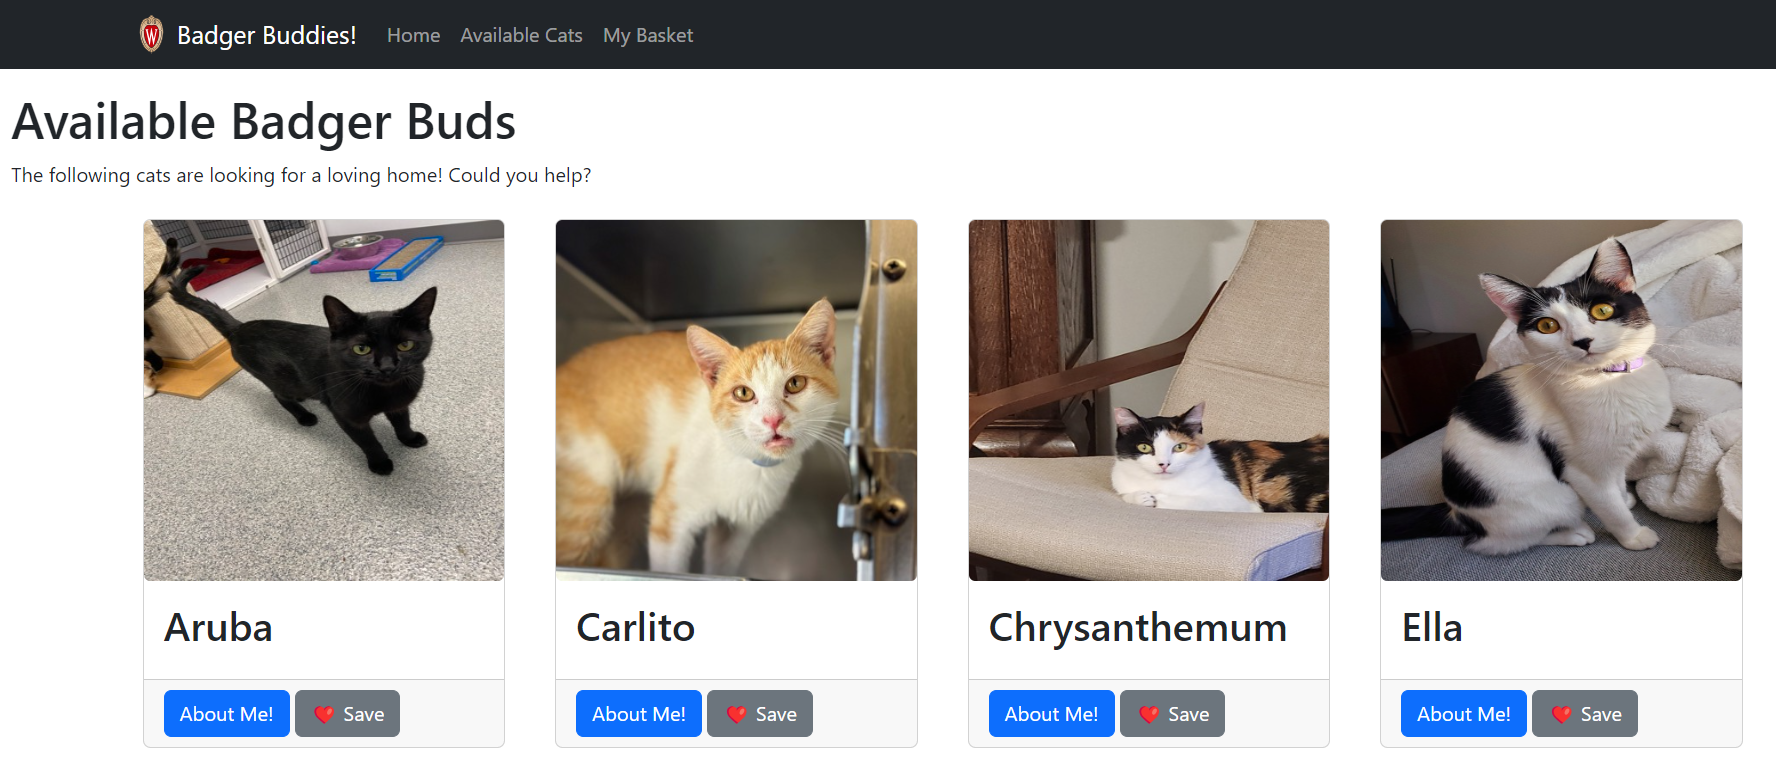
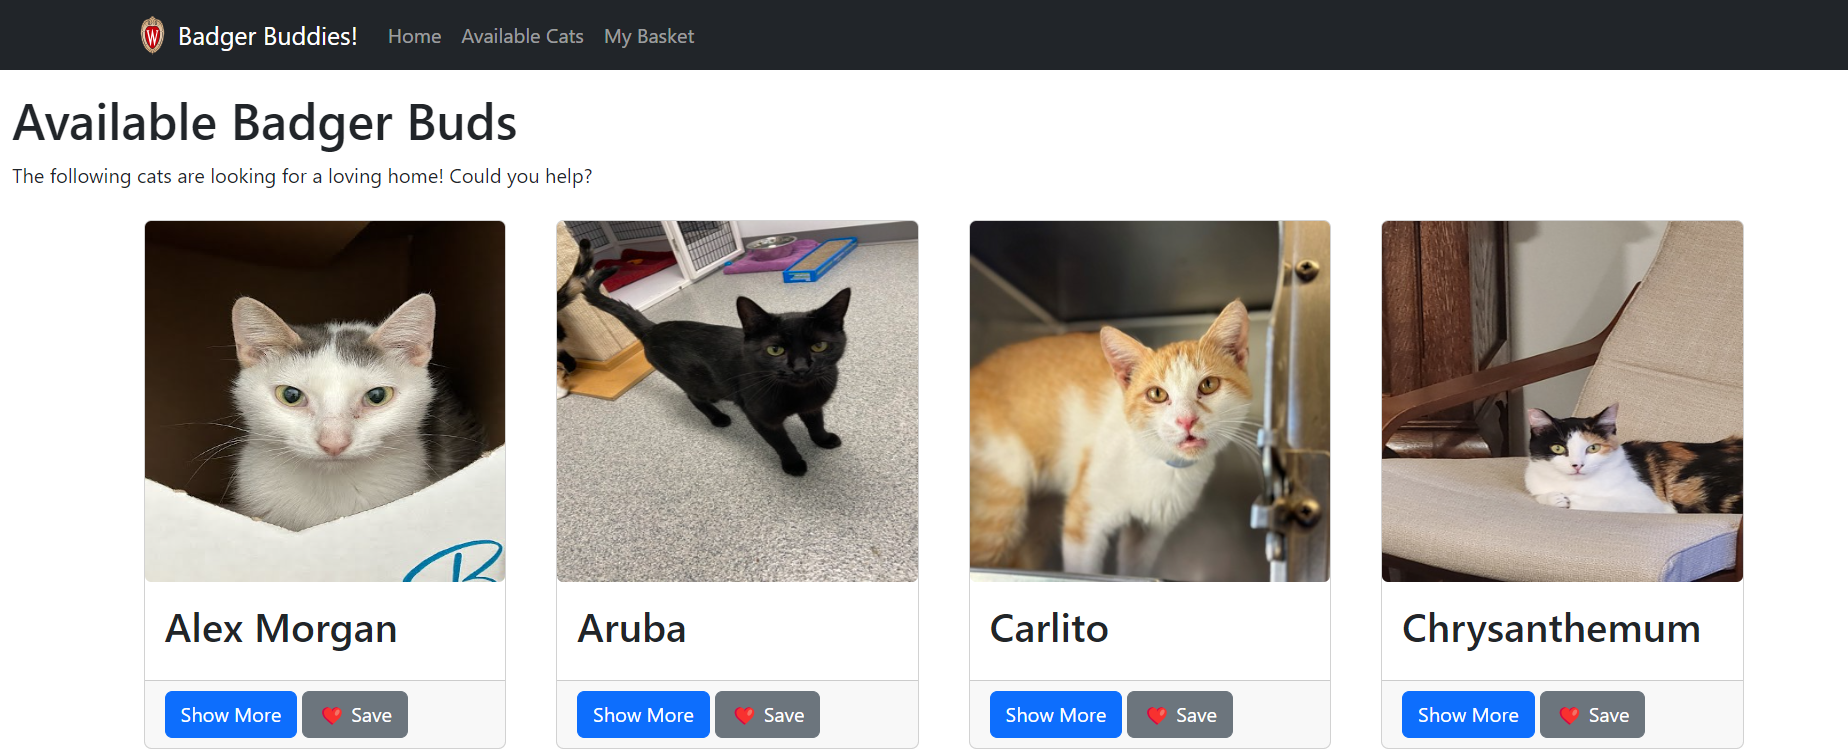
ease requirements

diff --git a/README.md b/README.md
@@ -34,7 +34,7 @@ On the "Available Cats" page (`BadgerBudsAdoptable.jsx`), display...
 
  - a picture (with appropriate alt tag, e.g. "A picture of Smokey")
  - a name
- - an "about me" button (see Step 4)
+ - a "show more" button (see Step 4)
  - a "save" button (see Step 5)
 
 ... for each of the buddies available for adoption.
@@ -44,7 +44,7 @@ Each buddy will have atleast 1 picture. The `src` for the image can be found by 
 Please note that...
 
  - **YOU MUST** create a component (e.g. `BadgerBudSummary.jsx`) to display this data.
- - **YOU MUST** specify a `key` for each summary.
+ - **YOU MUST** specify a `key` for each buddy.
  - **YOU MAY NOT** `fetch` data.
 
 The `fetch` has already been done for you in `BadgerBuds.jsx`. Instead of fetching data, you must use the `BadgerBudsDataContext`. This context returns an array with all the badger buddy data.
@@ -59,22 +59,19 @@ Use [React-Bootstrap's grid system](https://react-bootstrap.github.io/layout/gri
 
 ### 4. Display Additional Details
 
-Upon clicking the "about me" button, additional details should be shown for the buddy using a [Modal](https://react-bootstrap.netlify.app/docs/components/modal). This should include...
+Upon clicking the "show more" button, additional details should be shown for the buddy including...
 
- - name
  - gender
  - breed
  - age\*
  - a description *if they have one* (not all buddies have a description!)
- - all of the pictures in a [Carousel](https://react-bootstrap.netlify.app/docs/components/carousel) (note that some buddies only have 1 picture!)
- - an "exit" button
 
 \* The age is given in months and should be pretty-printed such that...
    - if the age is 4, "4 month(s) old" should be displayed.
    - if the age is 31, "2 year(s) and 7 month(s) old" should be displayed.
    - if the age is 48, "4 year(s) old" should be displayed.
 
-**Important:** The user must be able to exit the modal by either using the "exit" button **or** pressing the `esc` key on their keyboard.
+**Important:** The "show more" button should become a "show less" button. When "show less" is clicked, the card should go back to showing just the cat's name, picture, "show more" button, and "save" button.
 
 **Note:** To keep the assignment short, we won't do anything with the `spayed`, `neutered`, or `declawed` data. If you would like to display these you may, but it is not required.
 
@@ -101,7 +98,9 @@ In "My Basket", display...
  - an "unselect" button (see Step 7)
  - an "adopt" button (see Step 8)
 
-... for each saved buddy. You may choose to re-use the component you made in Step 2, or you may choose to make a new one. Again, **you must** specify a `key` for each buddy and **you must** use the `BadgerBudsDataContext` rather than `fetch`.
+... for each saved buddy. You may choose to re-use the component you made in Step 2, or you may choose to make a new one. Notice that there is no "show more" button for buddies on the "My Basket" page.
+
+Again, **you must** specify a `key` for each buddy and **you must** use the `BadgerBudsDataContext` rather than `fetch`.
 
 ![](_figures/step6.png)
 
@@ -123,6 +122,8 @@ When a user clicks the "adopt" button for a particular buddy, an `alert` should 
 
 You **MUST** implement this using `sessionStorage`. I would recommend creating a new  `adoptedCatIds`  to keep track of the buds that are adopted.
 
+**Note:** There is no way to "unadopt" a cat through our UI. Nor should you! 😿 Once the user has clicked "adopt", the only way `adoptedCatIds` can be reset is by closing the browser.
+
 ![](_figures/step8.png)
 
 ### Step 9: Handle No Buds
@@ -133,14 +134,17 @@ Likewise, on the "My Basket" page, if there are no saved buds, display "You have
 
 ![](_figures/step9.png)
 
+### Step 10: Display a Carousel
+
+When a buddy is in its "show more" mode, the single picture should be replaced with a [carousel](https://react-bootstrap.netlify.app/docs/components/carousel/) of pictures. When the user chooses "show less", it should go back to a single picture. Some carousels may only have a single picture -- that is okay!
+
+![](_figures/step10.png)
+
 ### Design Requirements
 
  - Be sure that your design is responsive.
  - Be sure that images are not extremely distorted; considering using an [aspect-ratio](https://developer.mozilla.org/en-US/docs/Web/CSS/aspect-ratio) of `"1/1"`
  - Be sure that all `img` have been given an appropriate `alt` tag.
- - Be sure to use a [modal](https://react-bootstrap.netlify.app/docs/components/modal) for displaying a bud's details.
- - Be sure to use a [carousel](https://react-bootstrap.netlify.app/docs/components/carousel) within your [modal](https://react-bootstrap.netlify.app/docs/components/modal) for displaying all of the bud's pictures.
-
 
 
 ### Done! 🥳
